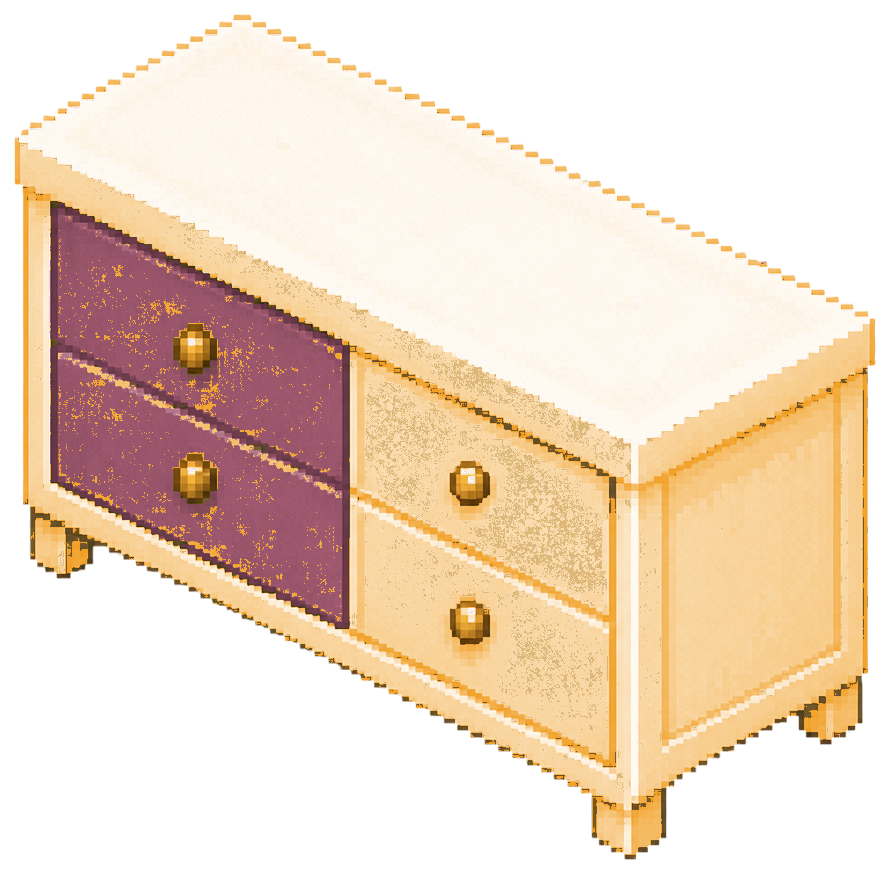
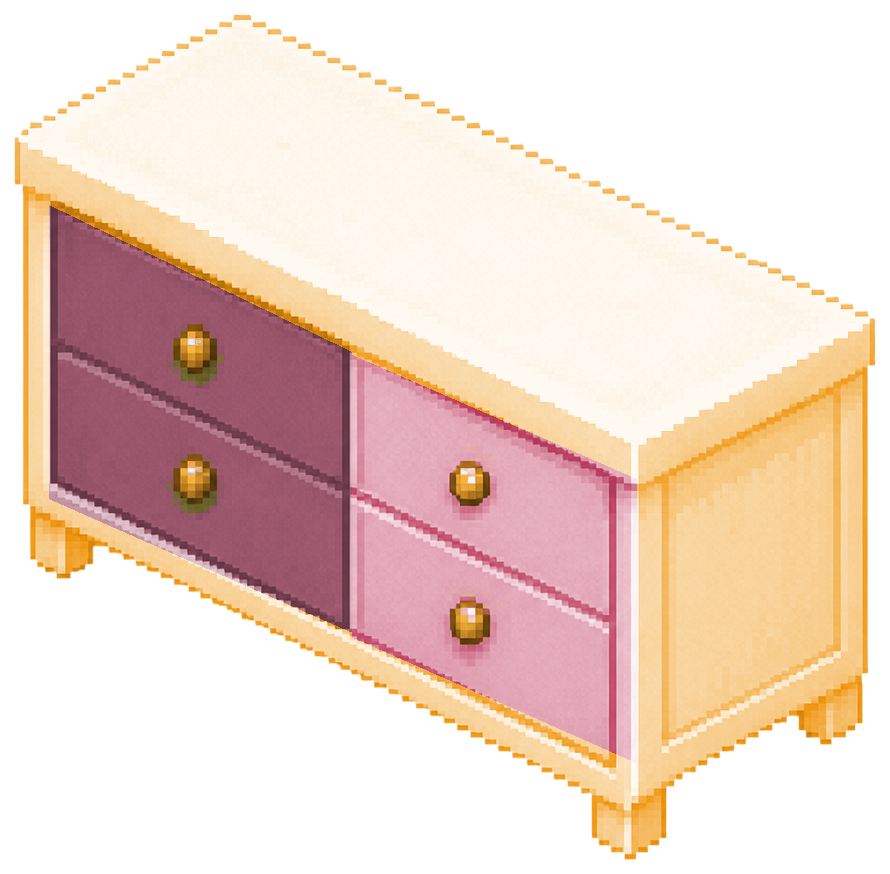
fix: refine pastel room and breed artwork

diff --git a/ui-experiments/main-screen/drafts/modular-room.js b/ui-experiments/main-screen/drafts/modular-room.js
@@ -140,6 +140,7 @@
   const developerToggle = document.querySelector("#developerToggle");
   const developerFloorOverlay = document.querySelector("#developerFloorOverlay");
   const developerPanel = document.querySelector("#developerPanel");
+  const developerThemeGallery = document.querySelector("#developerThemeGallery");
   const dogWalker = document.querySelector("#dogWalker");
   const dogFacing = dogWalker.querySelector(".dog-facing");
   const dogSprite = document.querySelector("#dogSprite");
@@ -381,6 +382,69 @@
     });
   }
 
+  function syncDeveloperThemeGallerySelection() {
+    developerThemeGallery.querySelectorAll(".developer-theme-card").forEach((card) => {
+      const selected = card.dataset.themeId === state.themeId;
+      card.classList.toggle("is-active", selected);
+      card.setAttribute("aria-pressed", String(selected));
+    });
+  }
+
+  function renderDeveloperThemeGallery() {
+    developerThemeGallery.replaceChildren();
+
+    const header = document.createElement("div");
+    header.className = "developer-theme-gallery-header";
+    const title = document.createElement("strong");
+    title.textContent = "PASTEL THEME ASSETS";
+    const help = document.createElement("span");
+    help.textContent = "ROOM + CABINET / CLICK TO APPLY";
+    header.append(title, help);
+
+    const grid = document.createElement("div");
+    grid.className = "developer-theme-grid";
+    THEME_CATALOG.forEach((theme) => {
+      const card = document.createElement("button");
+      card.type = "button";
+      card.className = "developer-theme-card";
+      card.dataset.themeId = theme.id;
+      card.setAttribute("aria-label", `Apply ${theme.label} room theme`);
+
+      const label = document.createElement("span");
+      label.className = "developer-theme-label";
+      const swatch = document.createElement("i");
+      swatch.style.setProperty("--theme-swatch", theme.swatch);
+      const name = document.createElement("b");
+      name.textContent = theme.label;
+      label.append(swatch, name);
+
+      const preview = document.createElement("span");
+      preview.className = "developer-theme-preview";
+      const room = document.createElement("img");
+      room.className = "developer-theme-room";
+      room.src = `../assets/themes/${theme.id}/room.png`;
+      room.alt = "";
+      room.loading = "lazy";
+      const cabinet = document.createElement("img");
+      cabinet.className = "developer-theme-cabinet";
+      cabinet.src = `../assets/themes/${theme.id}/cabinet.png`;
+      cabinet.alt = "";
+      cabinet.loading = "lazy";
+      preview.append(room, cabinet);
+      card.append(label, preview);
+      card.addEventListener("click", () => {
+        applyTheme(theme.id);
+        render();
+        syncDeveloperThemeGallerySelection();
+        showToast(`${theme.label} theme`);
+      });
+      grid.append(card);
+    });
+
+    developerThemeGallery.append(header, grid);
+    syncDeveloperThemeGallerySelection();
+  }
+
   function renderDeveloperOverlay(preview = null) {
     if (!developerMode) return;
     const entries = Object.entries(state.items).map(([id, placement]) => [
@@ -411,10 +475,12 @@
     developerToggle.querySelector("b").textContent = enabled ? "ON" : "OFF";
     if (enabled) {
       renderDeveloperOverlay();
+      renderDeveloperThemeGallery();
       showToast("개발자 모드: 실제 점유 좌표를 표시합니다.");
     } else {
       developerFloorOverlay.replaceChildren();
       developerPanel.replaceChildren();
+      developerThemeGallery.replaceChildren();
     }
   }
 
@@ -670,6 +736,8 @@
   });
   themePicker.addEventListener("change", () => {
     applyTheme(themePicker.value);
+    render();
+    if (developerMode) syncDeveloperThemeGallerySelection();
     showToast(`${roomThemes.get(state.themeId).label} theme`);
   });
   document.addEventListener("keydown", (event) => {

diff --git a/ui-experiments/main-screen/drafts/modular-room.css b/ui-experiments/main-screen/drafts/modular-room.css
@@ -428,6 +428,115 @@ body[data-theme="butter"] {
 .developer-row code { display: block; }
 .developer-row code { color: #d7e9c8; font: inherit; }
 
+.developer-theme-gallery {
+  display: none;
+  position: absolute;
+  z-index: 2150;
+  right: 3.5%;
+  bottom: 3.2%;
+  left: 3.5%;
+  max-height: 34%;
+  overflow: auto;
+  padding: 8px;
+  color: #eef9e5;
+  background: rgba(22, 31, 21, .93);
+  border: 1px solid rgba(218, 245, 186, .78);
+  box-shadow: 3px 3px 0 rgba(22, 29, 18, .32);
+  font-family: ui-monospace, "SFMono-Regular", Consolas, monospace;
+  pointer-events: auto;
+  touch-action: pan-x pan-y;
+}
+
+.room-stage.is-developer .developer-theme-gallery { display: block; }
+
+.developer-theme-gallery-header {
+  display: flex;
+  align-items: baseline;
+  justify-content: space-between;
+  gap: 8px;
+  margin-bottom: 6px;
+  font-size: 8px;
+  letter-spacing: .05em;
+}
+
+.developer-theme-gallery-header span { color: #bfdaa7; }
+
+.developer-theme-grid {
+  display: grid;
+  grid-template-columns: repeat(5, minmax(0, 1fr));
+  gap: 6px;
+}
+
+.developer-theme-card {
+  min-width: 0;
+  padding: 4px;
+  color: #eef9e5;
+  background: rgba(244, 249, 237, .06);
+  border: 1px solid rgba(218, 245, 186, .24);
+  cursor: pointer;
+}
+
+.developer-theme-card:hover,
+.developer-theme-card:focus-visible {
+  background: rgba(244, 249, 237, .14);
+  border-color: rgba(218, 245, 186, .82);
+  outline: none;
+}
+
+.developer-theme-card.is-active {
+  background: rgba(185, 236, 133, .18);
+  border-color: #b9ec85;
+  box-shadow: inset 0 0 0 1px rgba(185, 236, 133, .38);
+}
+
+.developer-theme-label {
+  display: flex;
+  align-items: center;
+  gap: 4px;
+  min-width: 0;
+  margin-bottom: 4px;
+  font-size: 7px;
+  text-align: left;
+}
+
+.developer-theme-label i {
+  flex: 0 0 auto;
+  width: 7px;
+  height: 7px;
+  background: var(--theme-swatch);
+  border: 1px solid rgba(255, 255, 255, .72);
+}
+
+.developer-theme-label b {
+  overflow: hidden;
+  text-overflow: ellipsis;
+  white-space: nowrap;
+}
+
+.developer-theme-preview {
+  display: grid;
+  grid-template-columns: minmax(0, 1.28fr) minmax(0, 1fr);
+  gap: 3px;
+  align-items: center;
+  min-height: 0;
+  overflow: hidden;
+  background:
+    linear-gradient(45deg, rgba(255,255,255,.06) 25%, transparent 25%) 0 0 / 8px 8px,
+    linear-gradient(45deg, transparent 75%, rgba(255,255,255,.06) 75%) 0 0 / 8px 8px,
+    rgba(0, 0, 0, .18);
+}
+
+.developer-theme-preview img {
+  display: block;
+  width: 100%;
+  max-height: 118px;
+  object-fit: contain;
+  image-rendering: pixelated;
+  pointer-events: none;
+}
+
+.developer-theme-cabinet { padding: 2px; }
+
 .dog-walker.is-happy .dog-sprite {
   animation: dog-happy .72s steps(7, end) 1;
 }
@@ -642,6 +751,8 @@ body[data-theme="butter"] {
   .theme-picker { top: 12%; right: 4%; width: 132px; min-width: 0; max-width: 42%; padding: 6px 7px; }
   .breed-picker select,
   .theme-picker select { max-width: 130px; }
+  .developer-theme-gallery { max-height: 40%; }
+  .developer-theme-grid { grid-template-columns: repeat(2, minmax(0, 1fr)); }
 }
 
 @media (max-aspect-ratio: 1 / 1) {

diff --git a/ui-experiments/main-screen/drafts/v7-growing-pixel-room.html b/ui-experiments/main-screen/drafts/v7-growing-pixel-room.html
@@ -56,12 +56,17 @@
           id="developerToggle"
           type="button"
           aria-pressed="false"
-          aria-controls="developerFloorOverlay developerPanel"
+          aria-controls="developerFloorOverlay developerPanel developerThemeGallery"
         >
           <span>DEV</span><b>OFF</b>
         </button>
 
         <aside class="developer-panel" id="developerPanel" aria-live="polite"></aside>
+        <section
+          class="developer-theme-gallery"
+          id="developerThemeGallery"
+          aria-label="Pastel theme asset comparison"
+        ></section>
 
         <div class="toast" id="toast" role="status" aria-live="polite"></div>
       </div>

diff --git a/ui-experiments/main-screen/assets/themes/README.md b/ui-experiments/main-screen/assets/themes/README.md
@@ -15,7 +15,8 @@ Each theme is a complete, material-aware PNG pack rather than a color overlay. A
 ## Material rules
 
 - The room exports recolor plaster, trim, floorboards, and the door separately. Wood grain and pixel shading are preserved.
-- Doghouse shells, patterned cushions, cabinet accent drawers, rugs, balls, toy textiles, bowls, and planter ceramics use their theme's accents.
+- Doghouse shells, patterned cushions, all four cabinet drawer fronts, rugs, balls, toy textiles, bowls, and planter ceramics use their theme's accents.
+- Cabinet drawers use a main-accent/soft-accent pair while retaining natural brass hardware. Foreground fences use main-accent structure and soft-accent faces/highlights instead of unthemed natural wood.
 - Window scenery, plant foliage, soil, food, water, natural wicker, brass hardware, bones, and the dogs' coat colors remain natural.
 - `room.png` is opaque. Decor PNGs preserve their original alpha channel.
 
